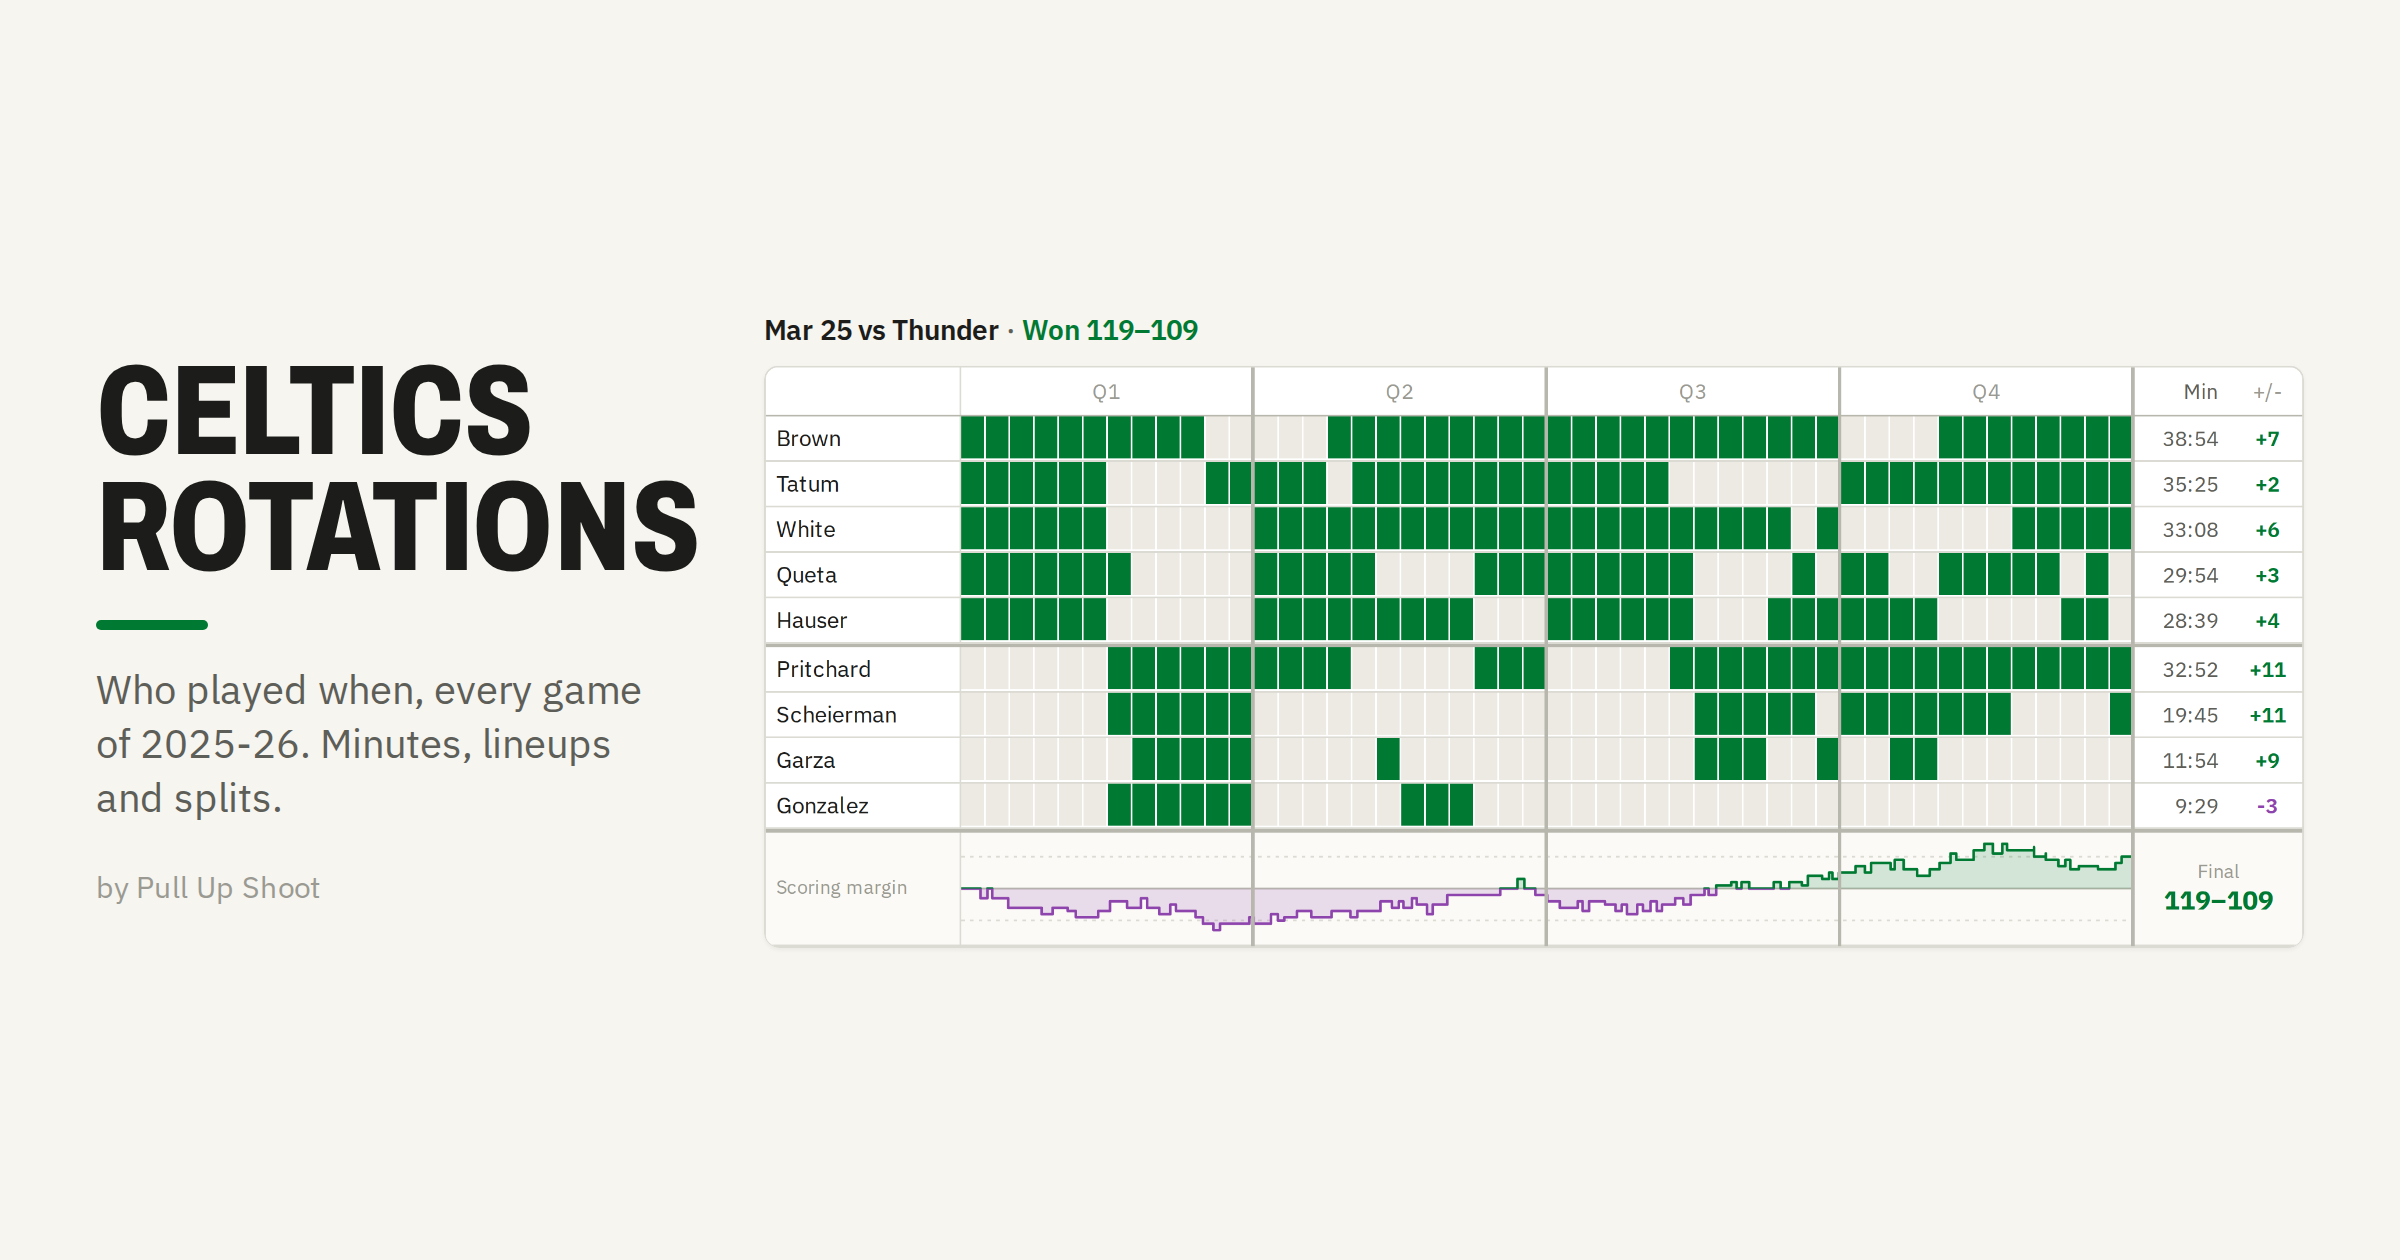
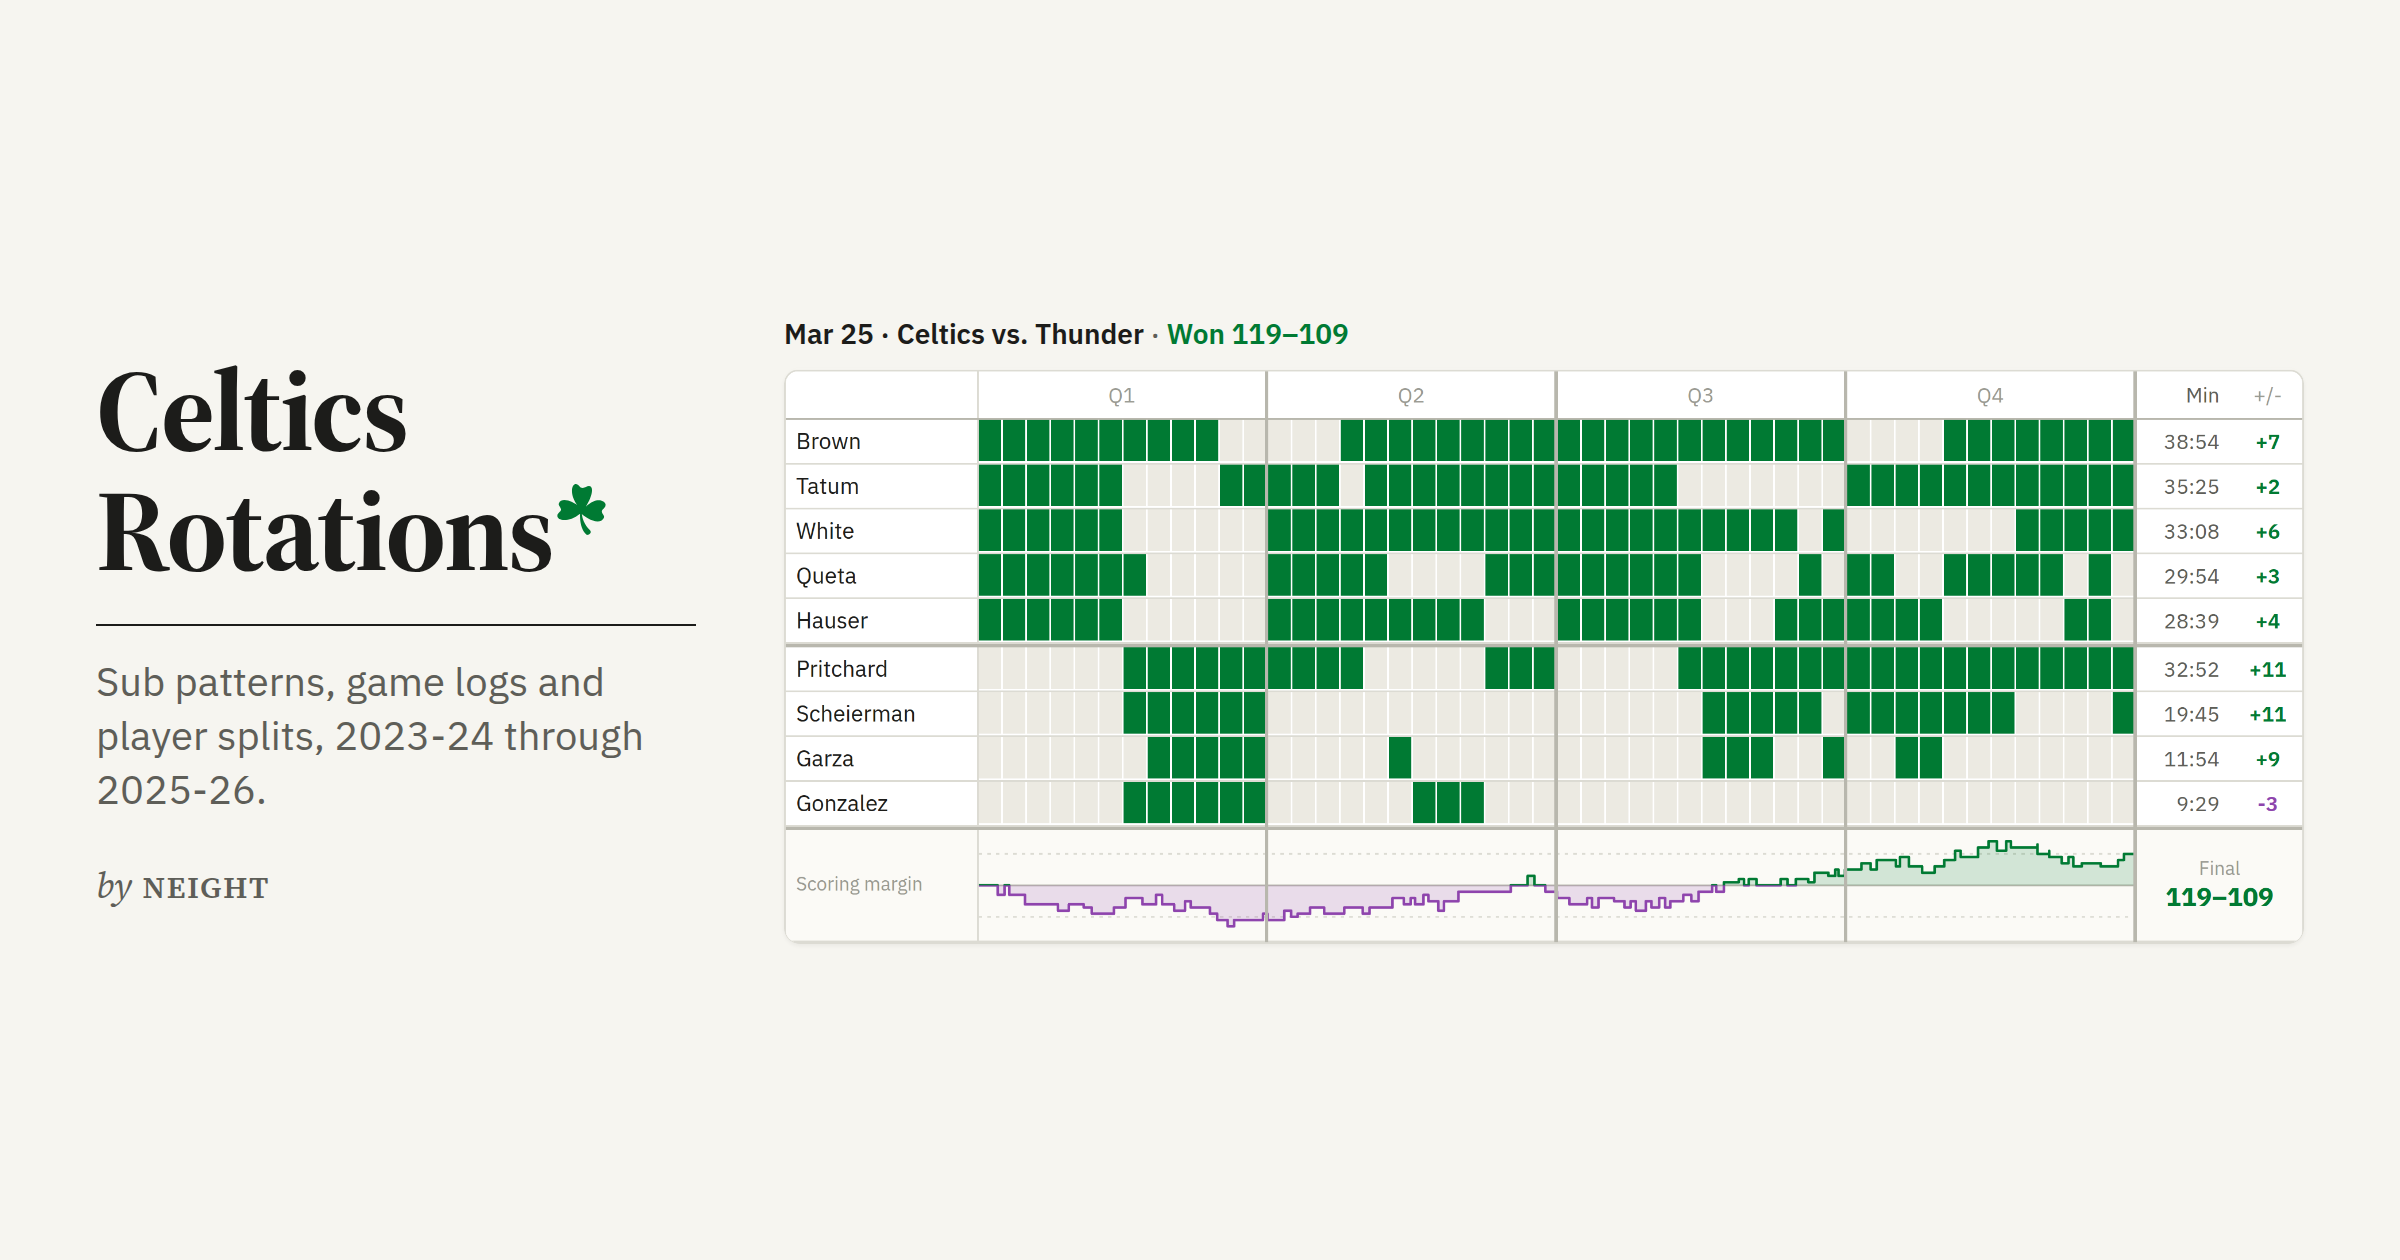
Byline by Neight, American spellings, new link preview
- Byline: italic "by" + spaced small caps NEIGHT in the header; "by Neight"
  in the page title, stretch map footer, saved images and share text.
  twitter:creator set to @NElGHT_.
- Link-preview image rebuilt in the new style (serif title, shamrock,
  "Sub patterns, game logs and player splits, 2023-24 through 2025-26").
- American spellings throughout (color, grayed, recolored).

Claude-Session: https://claude.ai/code/session_01MV5LgRLWcMB7Hix2AoZroe

Changed region(s): [[0.0312, 0.2476, 0.9688, 0.7738], [0.0312, 0.4952, 0.2812, 0.65], [0.0312, 0.681, 0.125, 0.7119]]

diff --git a/index.html b/index.html
@@ -5,19 +5,20 @@
 <meta name="viewport" content="width=device-width, initial-scale=1">
 <meta name="color-scheme" content="light">
 <meta name="supported-color-schemes" content="light">
-<title>Celtics Rotations · Pull Up Shoot</title>
+<title>Celtics Rotations · by Neight</title>
 <meta property="og:title" content="Celtics Rotations">
-<meta property="og:description" content="Every Celtics minute from 2023-24 through 2025-26: who played when, game by game, with player splits and a board to build next season's rotation.">
+<meta property="og:description" content="Celtics sub patterns, game logs, stretch maps and player splits from 2023-24 through 2025-26, plus a board to build next season's rotation. By Neight.">
 <meta property="og:image" content="https://pullupshoot.github.io/celtics-rotation-board/preview.png">
 <meta property="og:url" content="https://pullupshoot.github.io/celtics-rotation-board/">
 <meta property="og:type" content="website">
 <meta name="twitter:card" content="summary_large_image">
+<meta name="twitter:creator" content="@NElGHT_">
 <meta name="twitter:title" content="Celtics Rotations">
-<meta name="twitter:description" content="Every Celtics minute from 2023-24 through 2025-26: who played when, game by game, with player splits and a board to build next season's rotation.">
+<meta name="twitter:description" content="Celtics sub patterns, game logs, stretch maps and player splits from 2023-24 through 2025-26, plus a board to build next season's rotation. By Neight.">
 <meta name="twitter:image" content="https://pullupshoot.github.io/celtics-rotation-board/preview.png">
 <link rel="preconnect" href="https://fonts.googleapis.com">
 <link rel="preconnect" href="https://fonts.gstatic.com" crossorigin>
-<link href="https://fonts.googleapis.com/css2?family=Source+Serif+4:opsz,wght@8..60,600;8..60,700&family=IBM+Plex+Sans:wght@400;500;600;700&display=swap" rel="stylesheet">
+<link href="https://fonts.googleapis.com/css2?family=Source+Serif+4:ital,opsz,wght@0,8..60,600;0,8..60,700;1,8..60,400&family=IBM+Plex+Sans:wght@400;500;600;700&display=swap" rel="stylesheet">
 <style>
   :root {
     --bg: #f6f5f0;
@@ -30,7 +31,7 @@
     --green: #007a33;
     --green-soft: #d9ecdf;
     --gold: #ba9653;
-    --sel: #1c1c1a;      /* selection and focus: one dark outline everywhere; gold is a data colour (game by game) */
+    --sel: #1c1c1a;      /* selection and focus: one dark outline everywhere; gold is a data color (game by game) */
     --cell-off: #eceae2;
   }
   * { box-sizing: border-box; }
@@ -44,7 +45,8 @@
   .tagline { margin: 8px 0 0; font-size: 13px; color: var(--ink-2); }
   .nameplate { display: flex; align-items: baseline; justify-content: space-between; gap: 4px 16px; flex-wrap: wrap; padding-bottom: 8px; border-bottom: 1px solid var(--ink); }
   .sham { display: inline-block; width: .44em; height: .44em; vertical-align: super; margin-left: .03em; position: relative; top: .06em; }
-  .nameplate .by { font-size: 13px; color: var(--ink-3); white-space: nowrap; }
+  .nameplate .by { font-family: "Source Serif 4", Georgia, serif; font-weight: 600; font-size: 13px; letter-spacing: .06em; text-transform: uppercase; color: var(--ink-2); white-space: nowrap; }
+  .nameplate .by i { font-style: italic; font-weight: 400; font-size: 15px; letter-spacing: 0; text-transform: none; margin-right: .3em; }
   .eyebrow { font-size: 11px; letter-spacing: .12em; text-transform: uppercase; color: var(--ink-2); font-weight: 700; margin-bottom: 4px; }
   .views { display: grid; grid-template-columns: repeat(4, 1fr); background: #e9e7df; border-radius: 10px; padding: 3px; gap: 3px; margin-bottom: 14px; max-width: 560px; }
   .views button { border: 0; background: transparent; border-radius: 8px; padding: 9px 6px; font-weight: 600; font-size: 14px; color: var(--ink-2); }
@@ -398,7 +400,7 @@
 
 <div class="page">
 <header class="top">
-  <div class="nameplate"><h1>Celtics Rotations<!-- Shamrock: Twemoji by Twitter, CC BY 4.0 (creativecommons.org/licenses/by/4.0), recoloured --><svg class="sham" viewBox="0 0 36 36" aria-hidden="true"><path fill="#007a33" d="M32.34 19.208c.198-1.475 2.669-2.208 2.669-4.542S29.25 8.25 21 16c3.812-5.312 6.542-14.509 2.203-14.509c-1.47 0-2.579 1.342-4.328 1.342C16.5 2.833 16.208 0 14 0c-2.583 0-5 6.25 1 15c-1.5-1.625-11.083-6.625-13.002-1.269c-.628 1.753 1.731 2.781 1.544 4.519c-.178 1.654-2.597 2.037-2.597 4.372c0 3.293 8.048 4.834 16.044-1.613c-.245 4.524.557 10.515 3.857 14.158c1.344 1.483 2.407.551 2.822.187s1.604-1.414.185-2.822c-3.834-3.807-5.225-8.174-5.619-11.381c2.043 2.215 12.357 8.742 15.517 2.767c.881-1.668-1.643-2.977-1.411-4.71"/></svg></h1><span class="by">by Pull Up Shoot</span></div>
+  <div class="nameplate"><h1>Celtics Rotations<!-- Shamrock: Twemoji by Twitter, CC BY 4.0 (creativecommons.org/licenses/by/4.0), recolored --><svg class="sham" viewBox="0 0 36 36" aria-hidden="true"><path fill="#007a33" d="M32.34 19.208c.198-1.475 2.669-2.208 2.669-4.542S29.25 8.25 21 16c3.812-5.312 6.542-14.509 2.203-14.509c-1.47 0-2.579 1.342-4.328 1.342C16.5 2.833 16.208 0 14 0c-2.583 0-5 6.25 1 15c-1.5-1.625-11.083-6.625-13.002-1.269c-.628 1.753 1.731 2.781 1.544 4.519c-.178 1.654-2.597 2.037-2.597 4.372c0 3.293 8.048 4.834 16.044-1.613c-.245 4.524.557 10.515 3.857 14.158c1.344 1.483 2.407.551 2.822.187s1.604-1.414.185-2.822c-3.834-3.807-5.225-8.174-5.619-11.381c2.043 2.215 12.357 8.742 15.517 2.767c.881-1.668-1.643-2.977-1.411-4.71"/></svg></h1><span class="by"><i>by</i>Neight</span></div>
   <p class="tagline">Sub patterns, game logs and player splits</p>
 </header>
 <nav class="views" id="views" aria-label="View">
@@ -441,7 +443,7 @@
 
 
 
-<p class="foot">Play-by-play from NBA.com; minutes verified against official box scores. Shamrock from <a href="https://github.com/jdecked/twemoji" target="_blank" rel="noopener">Twemoji</a> (<a href="https://creativecommons.org/licenses/by/4.0/" target="_blank" rel="noopener">CC BY 4.0</a>), recoloured.</p>
+<p class="foot">Play-by-play from NBA.com; minutes verified against official box scores. Shamrock from <a href="https://github.com/jdecked/twemoji" target="_blank" rel="noopener">Twemoji</a> (<a href="https://creativecommons.org/licenses/by/4.0/" target="_blank" rel="noopener">CC BY 4.0</a>), recolored.</p>
 </div>
 
 <script src="season-2024-25.js"></script>
@@ -1145,8 +1147,8 @@ function markStint(){
   document.querySelectorAll('.c.sel').forEach(c=>c.classList.remove('sel'));
   if (!selStint) return;
   const r = players.findIndex(p=>p.name===selStint.name);
-  // Outline the same minutes the grid colours (on the floor 30+ seconds of that minute), so the box
-  // never covers an empty cell. Only a stint too short to colour any minute falls back to every minute it touched.
+  // Outline the same minutes the grid colors (on the floor 30+ seconds of that minute), so the box
+  // never covers an empty cell. Only a stint too short to color any minute falls back to every minute it touched.
   const touched=[...document.querySelectorAll('.c[data-r="'+r+'"]')].filter(c=>{
     const m=+c.dataset.m; return Math.min(selStint.b,(m+1)*60)-Math.max(selStint.a,m*60) > 0; });
   const shown=touched.filter(c=>c.classList.contains('on'));
@@ -1250,12 +1252,12 @@ function playerBlocks(name){
       mpg:t.sec/60/Math.max(1,gs.length), ok:t.sec>=BLOCK_MIN_MIN*60 };
   });
 }
-// Shared look for a rated block: full colour when the gap is 2+ swings, none when it's within 1, a blend between.
+// Shared look for a rated block: full color when the gap is 2+ swings, none when it's within 1, a blend between.
 const SMALL_MIN = 100;
-const FULL_MIN = 300;              // colour reaches full depth only with 300+ minutes behind it             // under 100 minutes in a stretch: outlined as a small sample
+const FULL_MIN = 300;              // color reaches full depth only with 300+ minutes behind it             // under 100 minutes in a stretch: outlined as a small sample
 function confCell(b){
   if (b.t.sec < SMALL_MIN*60) return { cls:' small', style:'', small:true };
-  const c=divColor(b.d*Math.min(1, b.t.sec/(FULL_MIN*60)));   // colour depth grows with the gap and with minutes
+  const c=divColor(b.d*Math.min(1, b.t.sec/(FULL_MIN*60)));   // color depth grows with the gap and with minutes
   return { cls:(c.dark?' dark':''), style:' style="background:'+c.bg+'"' };
 }
 function confNote(b){ return b.t.sec < SMALL_MIN*60 ? ' Small sample.' : ''; }
@@ -1436,7 +1438,7 @@ function stretchMap(){
     });
   });
   h+='</div><div class="strip-detail" id="mapDetail"></div>'
-    +'<div class="sm-foot"><span>Players with 1,000+ minutes · No garbage time · Colour deepens with the gap and with minutes · Outlined: under 100 minutes, tap for the number · Striped: under 50 minutes · Tap a column to sort</span><span><b>Celtics Rotations</b> · Pull Up Shoot · NBA.com play-by-play, '+(mapBoth?'2023-24 to 2025-26':SEASONS[seasonKey].label)+'</span></div></section>';
+    +'<div class="sm-foot"><span>Players with 1,000+ minutes · No garbage time · Color deepens with the gap and with minutes · Outlined: under 100 minutes, tap for the number · Striped: under 50 minutes · Tap a column to sort</span><span><b>Celtics Rotations</b> · by Neight · NBA.com play-by-play, '+(mapBoth?'2023-24 to 2025-26':SEASONS[seasonKey].label)+'</span></div></section>';
   return h;
 }
 function wireMap(el){
@@ -1519,7 +1521,7 @@ function renderSplits(){
   h+=seasonTimeline(name);
   // 1. the game clock
   h+='<section class="sec"><div class="sec-top"><h3 class="sec-h">Net rating by stretch</h3>'+gt+'</div>'
-    +'<p class="sec-sub">Celtics with him on the floor vs. their usual in those minutes, garbage time left out. Colour deepens with the gap and with minutes. Outlined: under 100 minutes.</p>'
+    +'<p class="sec-sub">Celtics with him on the floor vs. their usual in those minutes, garbage time left out. Color deepens with the gap and with minutes. Outlined: under 100 minutes.</p>'
     +'<div class="strip">'+[1,2,3,4].map(q=>'<div class="ql">Q'+q+'</div>').join('');
   blocks.forEach((b,i)=>{
     if (!b.ok){ h+='<button class="blk thin" data-b="'+i+'" aria-label="'+b.k.label+': too few minutes">—</button>'; return; }
@@ -1546,7 +1548,7 @@ function renderSplits(){
   h+='</div></section>';
   // 3. full splits, straight from NBA.com
   h+='<section class="sec"><div class="sec-top"><h3 class="sec-h">Splits</h3></div>'
-    +'<p class="sec-sub">Games as a Celtic. Greyed: under 100 minutes.</p>'
+    +'<p class="sec-sub">Games as a Celtic. Grayed: under 100 minutes.</p>'
     +'<div style="overflow-x:auto"><table class="sp"><thead><tr><th>Split</th><th class="gcol">G</th><th>MPG</th><th class="wide">Poss</th><th>+/-</th><th class="wide">ORtg</th><th class="wide">DRtg</th><th>Net</th></tr></thead><tbody>';
   const nrows=[['Role','Games he started',NS.start],['Role','Games off the bench',NS.bench],['Home / road','Home games',NS.home],['Home / road','Road games',NS.road],
     ['On / off','Celtics with him on the floor',NS.all],['On / off','Celtics with him off the floor',NS.off],['Baseline','Celtics, whole season',NBA_TEAM,true]];
@@ -1566,7 +1568,7 @@ function renderSplits(){
    +'<details class="full method"><summary>Sources and method</summary><div class="sp-note" style="margin-top:0"><ul>'
    +'<li>Sources: NBA.com play-by-play and box scores (game by game, minutes, net rating by stretch) and NBA.com player dashboards and lineup stats (teammates, splits).</li>'
    +'<li>The stretch map and the net rating strip describe the Celtics with a player on the floor, not his individual impact: the teammates and opponents on the floor with him shape those numbers too.</li>'
-   +'<li>Every section counts all minutes, garbage time included, the same way NBA.com does, except the stretch map and net rating by stretch. Those leave out garbage time (fourth-quarter blowouts and the stretch after a team pulls its starters for good), for the player and the team baseline alike, so late-fourth-quarter cells reflect competitive minutes. Their colour deepens with the size of the gap and with minutes played, reaching full strength at 300 minutes.</li>'
+   +'<li>Every section counts all minutes, garbage time included, the same way NBA.com does, except the stretch map and net rating by stretch. Those leave out garbage time (fourth-quarter blowouts and the stretch after a team pulls its starters for good), for the player and the team baseline alike, so late-fourth-quarter cells reflect competitive minutes. Their color deepens with the size of the gap and with minutes played, reaching full strength at 300 minutes.</li>'
    +'<li>Full splits and the teammate chart are NBA.com\'s own numbers (player dashboard, on/off and two-man lineup stats), limited to games as a Celtic, so they match NBA.com exactly. NBA.com doesn\'t publish possessions or a season plus-minus for the off-court row, so those show as a dash.</li>'
    +'<li>Minutes come from NBA.com play-by-play and match every box score. Typical night: stretches he was on the floor in more than half of those games, ignoring one-minute blips, shown for starts or bench games with 10+ games. Crunch time: share of the final 5:00 played in games within 5 points with 5:00 left.</li>'
    +'<li>The game-clock strip is our own calculation from NBA.com play-by-play, because NBA.com doesn\'t split by 6-minute stretch. Its minutes and plus-minus match NBA.com\'s box scores; its net ratings can differ from NBA.com\'s by a few tenths because of how possessions are credited around substitutions.</li>'
@@ -1723,7 +1725,7 @@ function exportImage(){
   x.beginPath(); x.moveTo(pad,gy+gh+0.5); x.lineTo(W-pad,gy+gh+0.5); x.stroke();
 
   x.fillStyle='#9a9a92'; x.font='11px Helvetica Neue, Helvetica, Arial, sans-serif';
-  x.fillText('Celtics Rotations · by Pull Up Shoot', pad, H-16);
+  x.fillText('Celtics Rotations · by Neight', pad, H-16);
 
   const url=cv.toDataURL('image/png');
   document.getElementById('exportImg').src=url;
